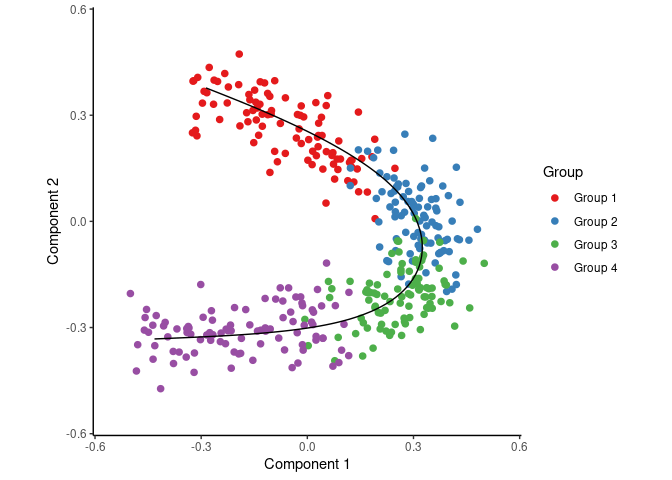
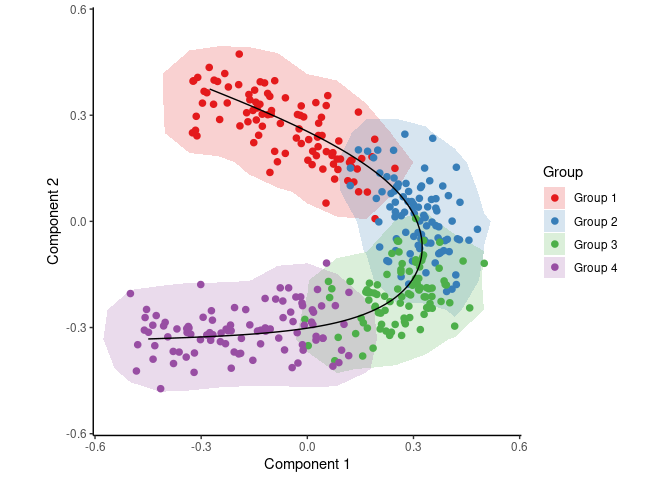
update vignettes

Changed region(s): [[0.1562, 0.0938, 0.75, 0.8125], [0.8125, 0.375, 0.8438, 0.5938]]

diff --git a/vignettes/ginhoux.md b/vignettes/ginhoux.md
@@ -23,8 +23,7 @@ frame named `sample_info`.
 `expression` was a 245-by-15752 matrix containing the expression values
 of all the cells and all the genes, but this dataset had to be reduced
 to 2000 genes in order to reduce the package size. See `?ginhoux` for
-more
-    info.
+more info.
 
 ``` r
 ginhoux$expression[1:6, 1:6]
@@ -75,15 +74,11 @@ space <- reduce_dimensionality(expression, "spearman", ndim = 3)
 ```
 
 The new space is a 245-by-3 matrix, and can be visualised with or
-without colouring of the different cell
-types.
+without colouring of the different cell types.
 
 ``` r
 draw_trajectory_plot(space, progression_group = group_name, contour = TRUE)
 ```
-
-    ## Warning: Computation failed in `stat_contour()`:
-    ## there is no package called 'isoband'
 
 ![](ginhoux_files/figure-gfm/show_dimred-1.png)<!-- -->
 
@@ -114,17 +109,13 @@ draw_trajectory_plot(
 )
 ```
 
-    ## Warning: Computation failed in `stat_contour()`:
-    ## there is no package called 'isoband'
-
 ![](ginhoux_files/figure-gfm/plot_trajectory-1.png)<!-- -->
 
 ## Finding candidate marker genes
 
 We search for genes whose expression is seems to be a function of the
 trajectory timeline that was inferred, as such genes might be good
-candidate marker genes for dendritic cell
-maturation.
+candidate marker genes for dendritic cell maturation.
 
 ``` r
 gimp <- gene_importances(expression, traj$time, num_permutations = 0, num_threads = 8)
@@ -139,10 +130,13 @@ To visualise the expression of the selected genes, use the
 draw_trajectory_heatmap(expr_sel, traj$time, group_name)
 ```
 
-Finally, these genes can also be grouped into modules as
-follows:
+![](ginhoux_files/figure-gfm/visualise_tafs-1.png)<!-- -->
+
+Finally, these genes can also be grouped into modules as follows:
 
 ``` r
 modules <- extract_modules(scale_quantile(expr_sel), traj$time, verbose = FALSE)
 draw_trajectory_heatmap(expr_sel, traj$time, group_name, modules)
 ```
+
+![](ginhoux_files/figure-gfm/moduled_tafs-1.png)<!-- -->

diff --git a/vignettes/simulated-data.md b/vignettes/simulated-data.md
@@ -25,8 +25,7 @@ The resulting dataset is a list containing a matrix named `expression`
 and a data frame named `sample_info`.
 
 `expression` is a 384-by-500 matrix containing the expression values of
-all the cells and all the
-    genes.
+all the cells and all the genes.
 
 ``` r
 dataset$expression[1:6, 1:6]
@@ -77,15 +76,11 @@ space <- reduce_dimensionality(expression, "spearman", ndim = 3)
 ```
 
 The new space is a 384-by-3 matrix, and can be visualised with or
-without colouring of the different cell
-types.
+without colouring of the different cell types.
 
 ``` r
 draw_trajectory_plot(space, progression_group = group_name, contour = TRUE)
 ```
-
-    ## Warning: Computation failed in `stat_contour()`:
-    ## there is no package called 'isoband'
 
 ![](simulated-data_files/figure-gfm/show_dimred-1.png)<!-- -->
 
@@ -116,9 +111,6 @@ draw_trajectory_plot(
 )
 ```
 
-    ## Warning: Computation failed in `stat_contour()`:
-    ## there is no package called 'isoband'
-
 ![](simulated-data_files/figure-gfm/plot_trajectory-1.png)<!-- -->
 
 ## Finding candidate marker genes
@@ -141,10 +133,13 @@ To visualise the expression of the selected genes, use the
 draw_trajectory_heatmap(expr_sel, traj$time, group_name)
 ```
 
-Finally, these genes can also be grouped into modules as
-follows:
+![](simulated-data_files/figure-gfm/visualise_tafs-1.png)<!-- -->
+
+Finally, these genes can also be grouped into modules as follows:
 
 ``` r
 modules <- extract_modules(scale_quantile(expr_sel), traj$time, verbose = FALSE)
 draw_trajectory_heatmap(expr_sel, traj$time, group_name, modules)
 ```
+
+![](simulated-data_files/figure-gfm/moduled_tafs-1.png)<!-- -->

diff --git a/vignettes/seurat.md b/vignettes/seurat.md
@@ -60,8 +60,7 @@ space <- reduce_dimensionality(expression, "spearman", ndim = 3)
 ```
 
 The new space is a 245-by-3 matrix, and can be visualised with or
-without colouring of the different cell
-types.
+without colouring of the different cell types.
 
 ``` r
 draw_trajectory_plot(space, progression_group = group_name, contour = TRUE)
@@ -102,8 +101,7 @@ draw_trajectory_plot(
 
 We search for genes whose expression is seems to be a function of the
 trajectory timeline that was inferred, as such genes might be good
-candidate marker genes for dendritic cell
-maturation.
+candidate marker genes for dendritic cell maturation.
 
 ``` r
 gimp <- gene_importances(expression, traj$time, num_permutations = 0, num_threads = 8)
@@ -120,8 +118,7 @@ draw_trajectory_heatmap(expr_sel, traj$time, group_name)
 
 ![](seurat_files/figure-gfm/visualise_tafs-1.png)<!-- -->
 
-Finally, these genes can also be grouped into modules as
-follows:
+Finally, these genes can also be grouped into modules as follows:
 
 ``` r
 modules <- extract_modules(scale_quantile(expr_sel), traj$time, verbose = FALSE)
